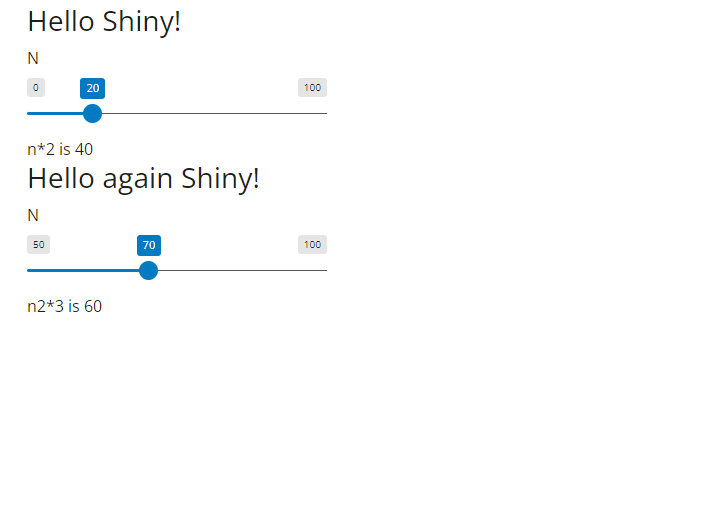
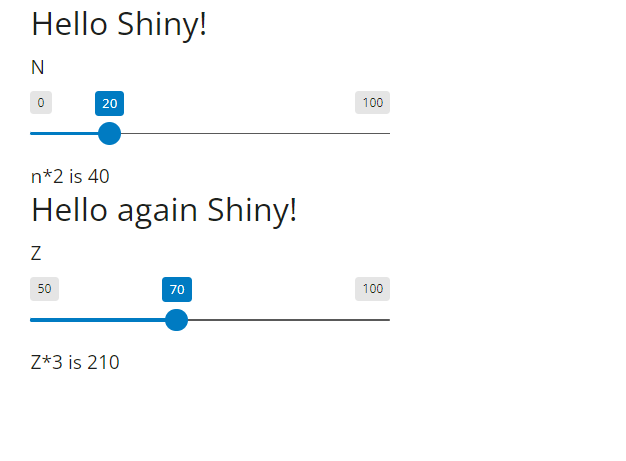
snapshot updated

diff --git a/index.html b/index.html
@@ -1563,11 +1563,11 @@
 <span id="cb20-9"><a href="#cb20-9"></a>    <span class="cf">return</span> <span class="ss">f"n*2 is </span><span class="sc">{</span><span class="bu">input</span><span class="sc">.</span>n() <span class="op">*</span> <span class="dv">2</span><span class="sc">}</span><span class="ss">"</span></span>
 <span id="cb20-10"><a href="#cb20-10"></a></span>
 <span id="cb20-11"><a href="#cb20-11"></a>ui.panel_title(<span class="st">"Hello again Shiny!"</span>)</span>
-<span id="cb20-12"><a href="#cb20-12"></a>ui.input_slider(<span class="st">"n2"</span>, <span class="st">"N"</span>, <span class="dv">50</span>, <span class="dv">100</span>, <span class="dv">70</span>)</span>
+<span id="cb20-12"><a href="#cb20-12"></a>ui.input_slider(<span class="st">"z"</span>, <span class="st">"Z"</span>, <span class="dv">50</span>, <span class="dv">100</span>, <span class="dv">70</span>)</span>
 <span id="cb20-13"><a href="#cb20-13"></a></span>
 <span id="cb20-14"><a href="#cb20-14"></a><span class="at">@render.text</span></span>
 <span id="cb20-15"><a href="#cb20-15"></a><span class="kw">def</span> txt2():</span>
-<span id="cb20-16"><a href="#cb20-16"></a>    <span class="cf">return</span> <span class="ss">f"n2*3 is </span><span class="sc">{</span><span class="bu">input</span><span class="sc">.</span>n() <span class="op">*</span> <span class="dv">3</span><span class="sc">}</span><span class="ss">"</span></span></code><button title="Copy to Clipboard" class="code-copy-button"><i class="bi"></i></button></pre></div>
+<span id="cb20-16"><a href="#cb20-16"></a>    <span class="cf">return</span> <span class="ss">f"Z*3 is </span><span class="sc">{</span><span class="bu">input</span><span class="sc">.</span>z() <span class="op">*</span> <span class="dv">3</span><span class="sc">}</span><span class="ss">"</span></span></code><button title="Copy to Clipboard" class="code-copy-button"><i class="bi"></i></button></pre></div>
 </div>
 </div><div class="column" style="width:50%;">
 <p><br> <img data-src="quartopptimages/appbasic_expressexample.png" style="width:100.0%" data-fig-align="center" alt="Shiny python dashboard example"></p>
